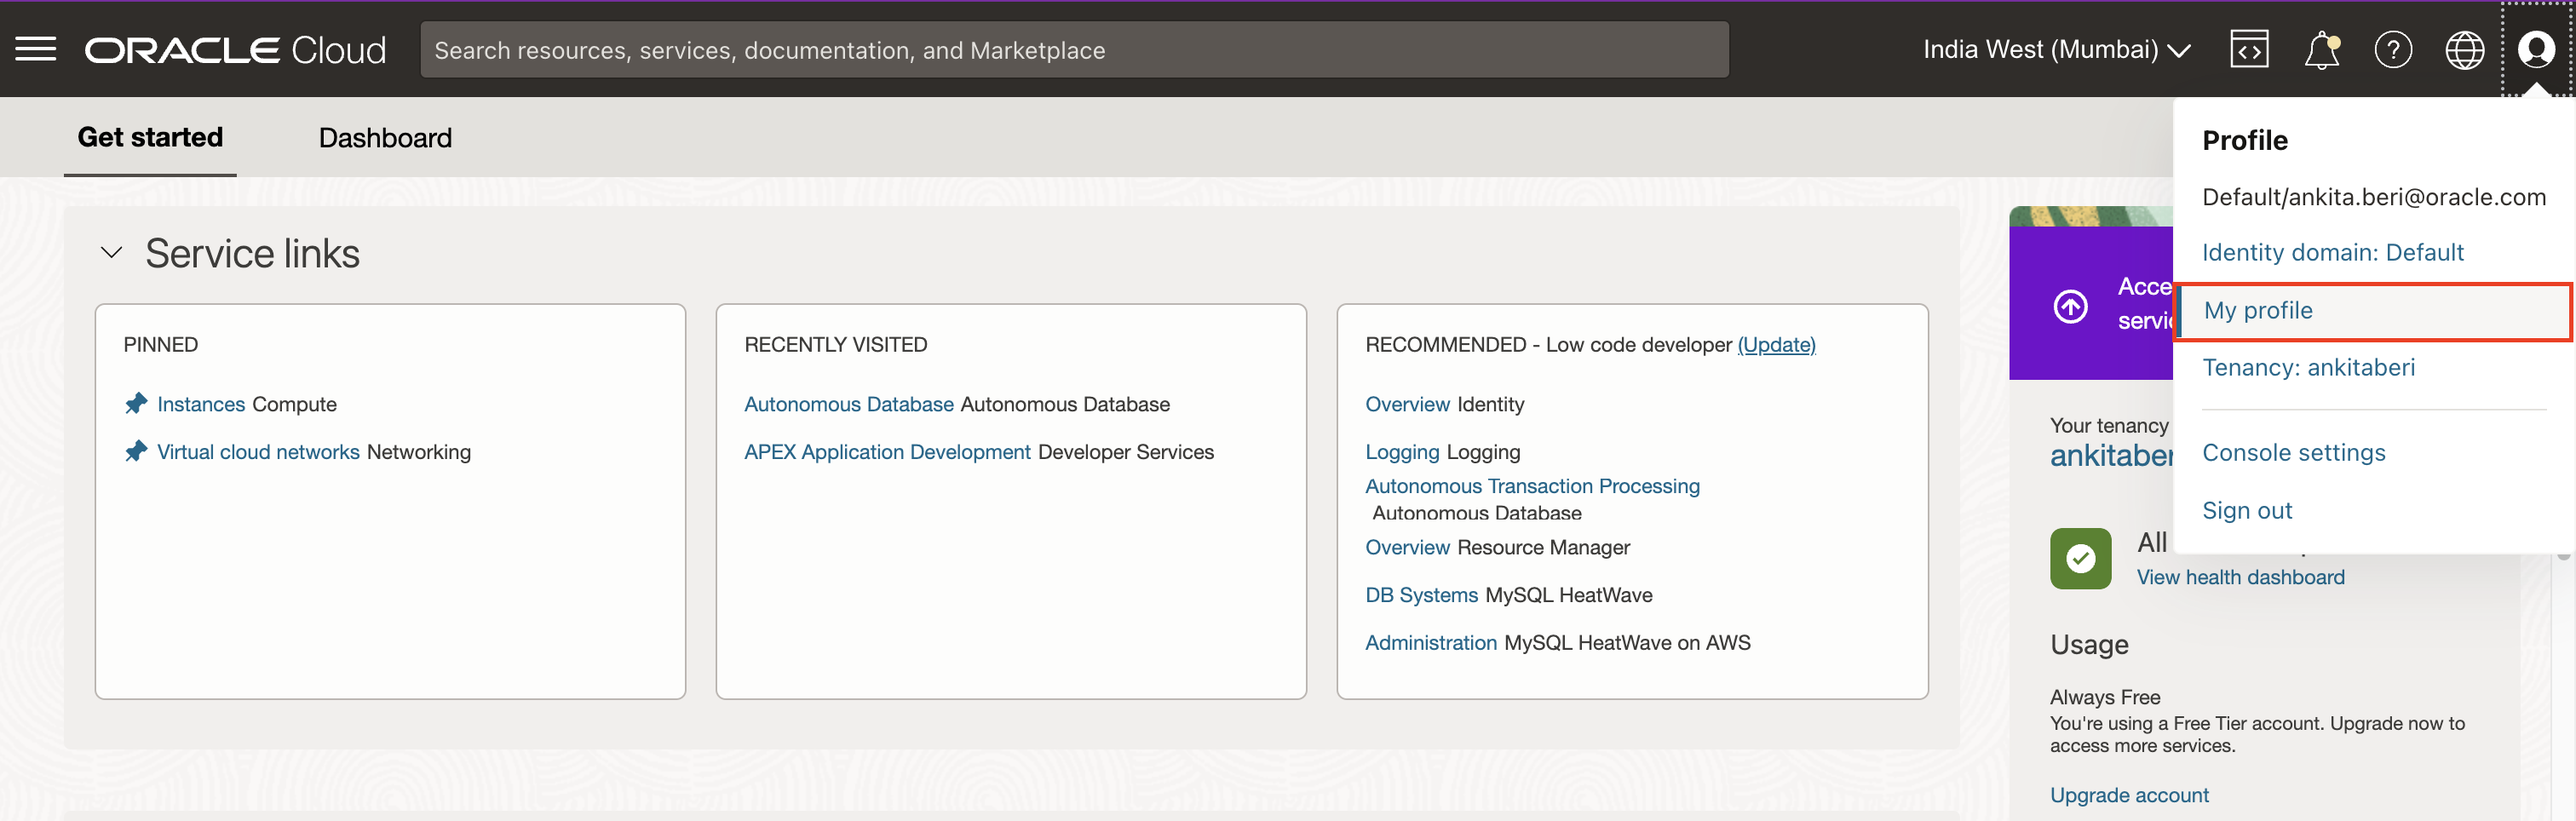
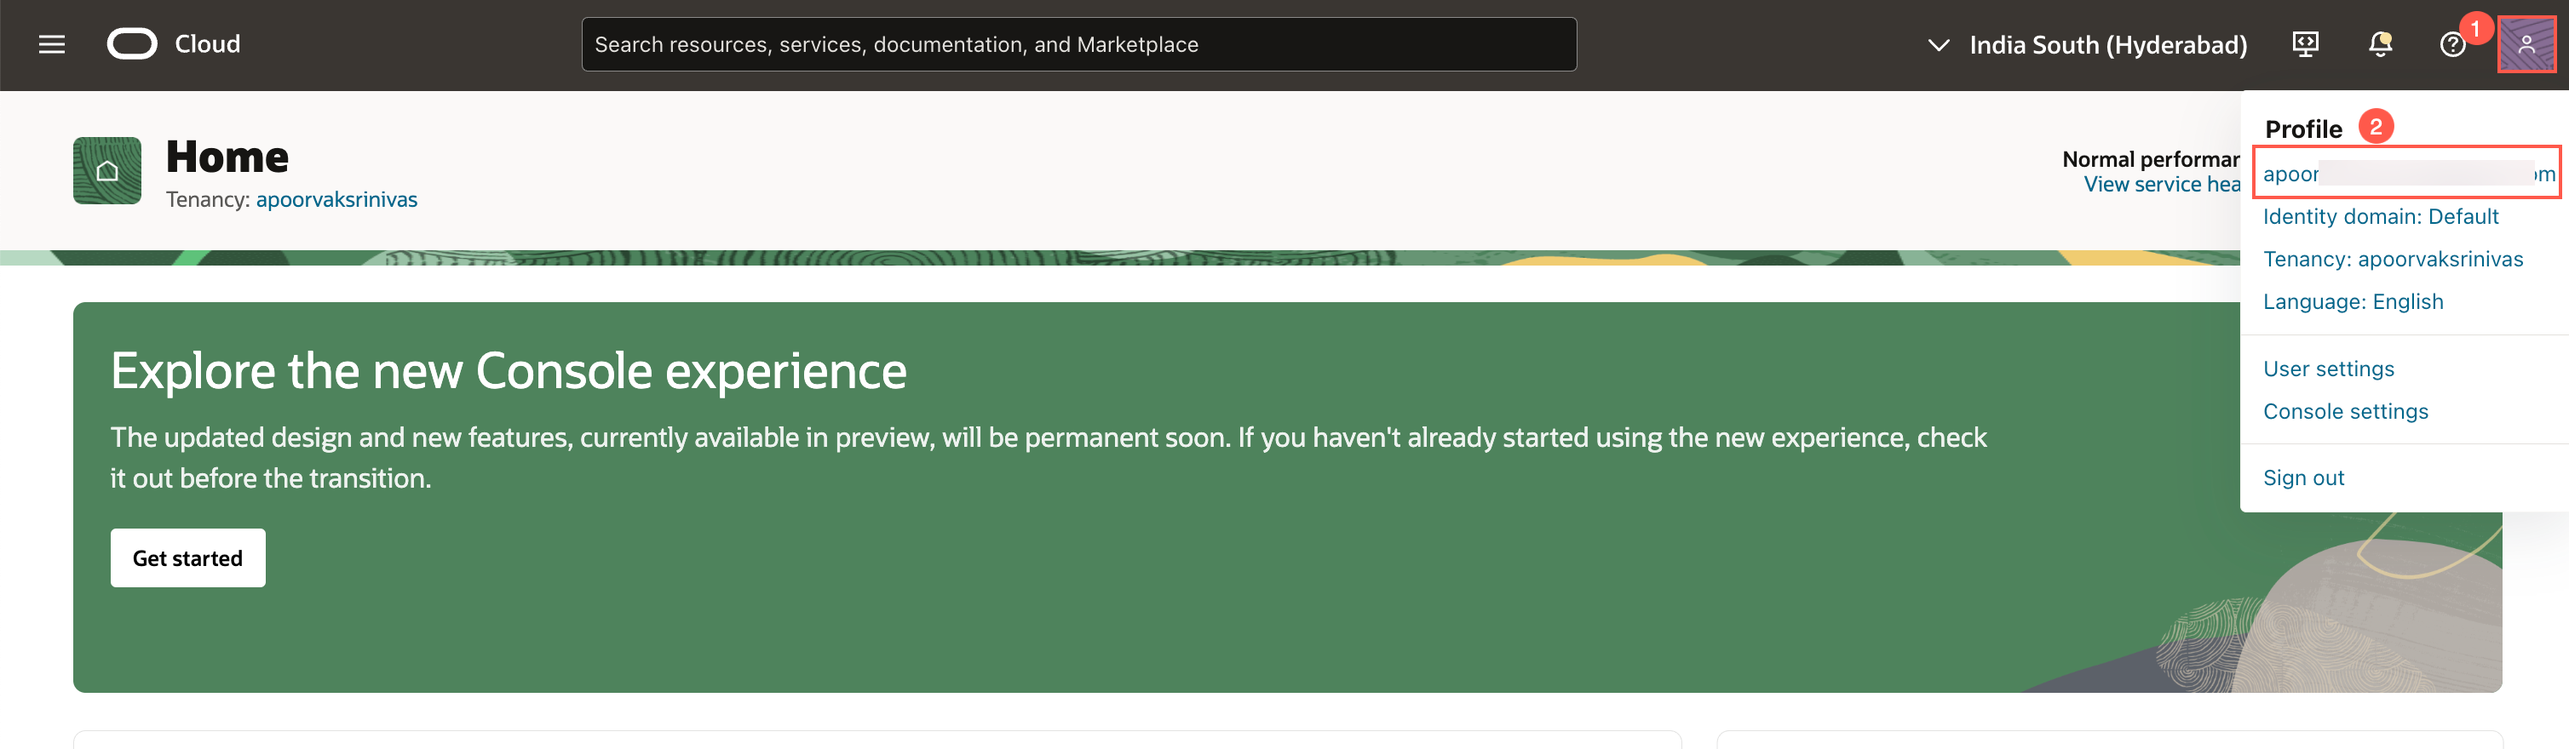
image search

diff --git a/image-semantic-search/5-edit-application/5-edit-application.md b/image-semantic-search/5-edit-application/5-edit-application.md
@@ -156,7 +156,7 @@ In this task, we will create a Search page for Text based search.
 
 2. In the Create a Page Wizard, select the Component as **Cards** and click **Next**.
 
-    ![Create page](images/create-pages2.png  =60%x*)
+    ![Create page](images/create-pages2.png =60%x*)
 
 3. In the Create Cards Wizards, enter/select the following:
 

diff --git a/image-semantic-search/1-configure-oci/1-configure-oci.md b/image-semantic-search/1-configure-oci/1-configure-oci.md
@@ -24,7 +24,7 @@ To Generate the API Keys using OCI Console:
 
    ![Add API Key](images/oci-login.png " ")
 
-2. Click **My Profile** at the top-right corner and select **User settings**.
+2. Click **Profile** at the top-right corner and select your username.
 
     ![Profile Menu](images/profile.png " ")
 
